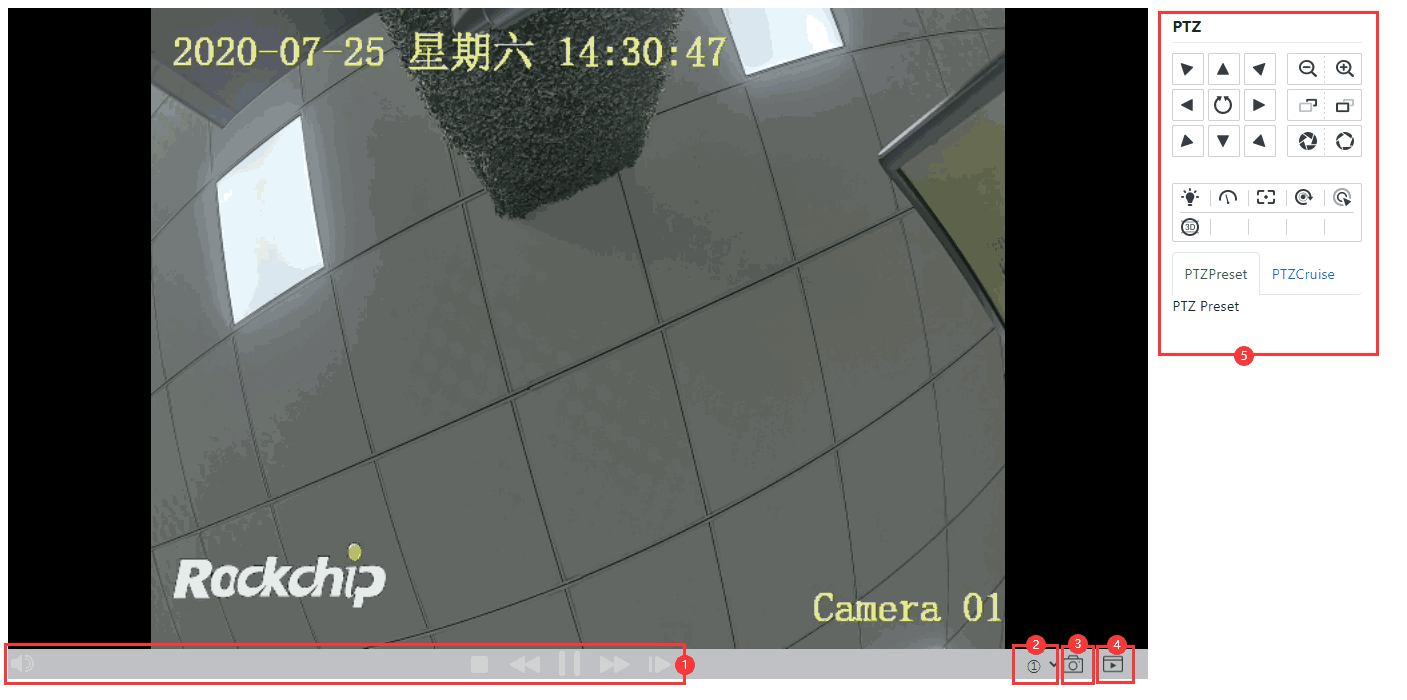
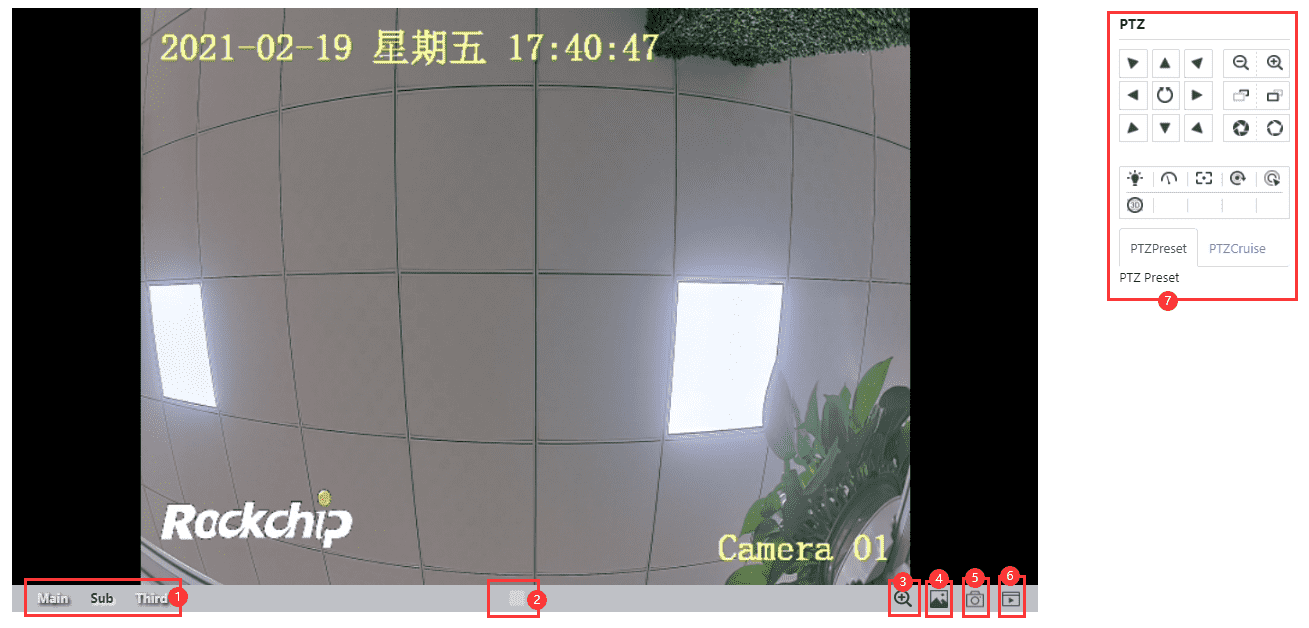
Dept3: Rockchip_Instructions_Linux_Web_Configuration
1. update web player introduce
2. update isp func introduce

diff --git a/Dept3/Linux/ApplicationNote/Rockchip_Instructions_Linux_Web_Configuration/Rockchip_Instructions_Linux_Web_Configuration_CN.md b/Dept3/Linux/ApplicationNote/Rockchip_Instructions_Linux_Web_Configuration/Rockchip_Instructions_Linux_Web_Configuration_CN.md
@@ -2,9 +2,9 @@
 
 文件标识：RK-SM-YF-357
 
-发布版本：V1.5.0
+发布版本：V1.6.0
 
-日期：2020-08-31
+日期：2021-02-19
 
 文件密级：□绝密   □秘密   □内部资料   ■公开
 
@@ -71,6 +71,7 @@ Rockchip Electronics Co., Ltd.
 | V1.3.1 | 陈茂森 | 2020-07-25 | 名称修正 |
 | V1.4.0 | 陈茂森 | 2020-08-14 | 人脸功能变更说明 |
 | V1.5.0 | 陈茂森 | 2020-08-31 | 增加直连调试的说明 |
+| V1.6.0 | 陈茂森 | 2021-02-19 | 预览功能更新，ISP功能更新 |
 
 ---
 
@@ -117,7 +118,7 @@ Rockchip Electronics Co., Ltd.
 
 一月免密登录：30天内免密登录。
 
-浏览器要求：and_chr 81 / and_ff 68 / and_qq 1.2 / and_uc 12.12 / android 81 / baidu 7.12 / chrome 81 / chrome 80 / chrome 79 / edge 81 / edge 80 / edge 18 / firefox 75 / firefox 74 / firefox 73 / firefox 68 / ios_saf 13.3 / ios_saf 13.2 / ios_saf 12.2-12.4 / kaios 2.5 / op_mini all / op_mob 46 / opera 68 / opera 67 / safari 13 / safari 12.1 / samsung 11.1 / samsung 10.1
+浏览器要求：Chrome 79+，Firefox 68+，Edge 80+，Safari 12.1+。
 
 浏览器说明：使用非要求内浏览器，可能存在部分功能无法使用的情况，如播放器无法正常播放。推荐使用最新版chrome进行操作。
 
@@ -153,15 +154,21 @@ Rockchip Electronics Co., Ltd.
 
 <img src="resources/preview_cn.png" alt="preview" style="zoom:67%;" />
 
-①播放器菜单：目前仅支持开始播放以及暂停播放功能。
+①码流切换：切换播放码流。
 
-②码流切换：设置预览界面码流，暂未实现。
+②播放菜单：支持停止/开始功能。
 
-③实时抓图：对网络摄像机画面进行实时截取，可在回放中查看记录。
+③电子放大：对预览内容进行局部放大。
 
-④实时录像：开启实时录像功能，录像过程中按钮转为蓝色，再次点击可结束录像；可在回放中查看记录。
+④网页截图：网页端对预览界面进行截图。
 
-⑤云台：网络摄像机的云台，暂未实现。
+⑤抓拍：设备端抓拍功能，可在[截图](#截图)中查看记录（仅支持主码流）。
+
+⑥录像：设备端录像开关，可在[录像](#录像)中查看记录（仅支持主码流）。
+
+⑦云台：该功能暂未实现。
+
+注：播放器仅支持h264格式。
 
 ## 回放
 
@@ -173,7 +180,7 @@ Rockchip Electronics Co., Ltd.
 
 ①查询：对已有录像进行条件查询。
 
-②预览：双击查询列表的文件，可在预览窗口中进行预览。
+②预览：双击查询列表的文件，可在预览窗口中进行预览（仅支持h264格式）。
 
 ③下载：对选中的录像进行下载。
 
@@ -483,9 +490,9 @@ I帧间隔：两个关键帧间的间隔。
 
 ②图像调节：设置视频亮度、对比度、饱和度、锐度。
 
-③曝光：目前仅支持曝光时间以及增益调节。
+③曝光：支持“自动曝光”以及“手动曝光”两种模式，手动曝光模式下支持对曝光时间以及增益的调节。
 
-④日夜转换：支持日夜转换模式，过滤时间，补光灯模式的调节。灵敏度调节暂未实现。
+④日夜转换：支持日夜转换模式，过滤时间，补光灯模式的调节。
 
 日夜转换模式：“白天”模式下，图像为彩色，“夜晚”模式下图像为黑白。
 
@@ -493,25 +500,33 @@ I帧间隔：两个关键帧间的间隔。
 
 灵敏度：对应的夜晚模式到白天模式转换阈值。灵敏度越高，越容易切换到白天模式， 越难切换到夜晚模式；灵敏度越低，越容易切换到夜晚模式，越难切换到白天模式。
 
-⑥白平衡：设置白平衡模式，支持“手动白平衡”、“自动白平衡”、“锁定白平衡”、“日光灯”、“白炽灯”、“暖光灯”和“自然光”。
+注：配置其他模式后再配置自动模式，将无法使用自动模式进行自动切换。
+
+⑤背光：支持高动态以及高动态级别配置。
+
+高动态：高动态下，能够更好的反映出真实环境中的视觉效果。
+
+⑥白平衡：设置白平衡模式，支持“手动白平衡”、“自动白平衡”。
 
 手动白平衡：该模式下支持 R、B 增益调整。
 
-锁定白平衡：该模式下将锁定当前色彩校正矩阵。
+⑦图像增强：设置数字降噪、去雾模式、灰度范围、鱼眼矫正。
 
-如果实际使用场景为固定灯光类型，可根据实际选择后四种选项。
+数字降噪：减少图像噪点。支持时域降噪，空域降噪以及综合降噪。
 
-⑦图像增强：设置数字降噪、透雾模式、灰度范围、鱼眼矫正。
-
-数字降噪：减少图像噪点。普通模式下，通过降噪等级进行调整。在专家模式下可设置时域与空域降噪。
-
-透雾模式：可选择“开启”和“关闭”，开启该功能后可以一定程度上提升水雾天气视频画面中的物体可辨识程度。
+去雾模式：可选择“开启”和“关闭”，开启该功能后可以一定程度上提升水雾天气视频画面中的物体可辨识程度。
 
 灰度范围：可选择“[0-255]”和“[16-235]”，用户可根据实际需要来选择视频编码的灰度范围。
 
-鱼眼矫正：可选择“开启”和“关闭”，开启该功能后可以一定程度上减小画面边缘的畸变。
+畸变矫正：支持LDCH以及FEC矫正。
 
-⑧视频调整：目前仅支持制式设置。
+LDCH：水平方向的畸变矫正，支持矫正级别的调整。
+
+FEC：水平以及垂直方向的畸变矫正，支持矫正级别的调整。
+
+⑧视频调整：支持视频制式的调整，以及视频镜像模式的配置。
+
+镜像：支持翻转、镜像、中心对称模式配置。
 
 ---
 
@@ -535,11 +550,9 @@ I帧间隔：两个关键帧间的间隔。
 
 <img src="resources/privacy_cn.png" alt="privacy" style="zoom: 50%;" />
 
-绘制区域：绘制视频遮挡区域，目前最多绘制1个区域，计划最多绘制4个区域。
+绘制区域：绘制视频遮挡区域，目前仅支持绘制1个区域。
 
 清除：清除所有的绘制区域。
-
-说明：目前仅第一个绘图区域遮挡生效。
 
 #### 图片遮挡
 

diff --git a/Dept3/Linux/ApplicationNote/Rockchip_Instructions_Linux_Web_Configuration/Rockchip_Instructions_Linux_Web_Configuration_EN.md b/Dept3/Linux/ApplicationNote/Rockchip_Instructions_Linux_Web_Configuration/Rockchip_Instructions_Linux_Web_Configuration_EN.md
@@ -2,9 +2,9 @@
 
 ID: RK-SM-YF-357
 
-Release Version: V1.5.0
+Release Version: V1.6.0
 
-Release Date: 2020-08-31
+Release Date: 2021-02-19
 
 Security Level: □Top-Secret   □Secret   □Internal   ■Public
 
@@ -67,6 +67,7 @@ Software development engineers
 | V1.3.1 | Allen Chen | 2020-07-25 | Correction. |
 | V1.4.0 | Allen Chen | 2020-08-14 | Add introduction on face function changes. |
 | V1.5.0 | Allen Chen | 2020-08-31 | Add introduction about direct connection. |
+| V1.6.0 | Allen Chen | 2021-02-19 | Update introduction about Web player and ISP. |
 
 **Contents**
 
@@ -115,7 +116,7 @@ Auto Login Within One Week: Login without password within 7 days.
 
 Auto Login Within One Month: Login without password within 30 days.
 
-Browser requirements: and_chr 81 / and_ff 68 / and_qq 1.2 / and_uc 12.12 / android 81 / baidu 7.12 / chrome 81 / chrome 80 / chrome 79 / edge 81 / edge 80 / edge 18 / firefox 75 / firefox 74 / firefox 73 / firefox 68 / ios_saf 13.3 / ios_saf 13.2 / ios_saf 12.2-12.4 / kaios 2.5 / op_mini all / op_mob 46 / opera 68 / opera 67 / safari 13 / safari 12.1 / samsung 11.1 / samsung 10.1
+Browser requirements: Chrome 79+，Firefox 68+，Edge 80+，Safari 12.1+.
 
 Remark: using browser that is beyond requirements, part of functions would be disabled.
 
@@ -151,15 +152,21 @@ Use a browser to access the login address, you can see the login address as show
 
 ![preview](resources/preview_en.png)
 
-①Player Menu: Only support playing/pausing/stopping。
+①Switch Stream: Switch stream to play.
 
-②Switch Stream: To be realized.
+②Player menu: Support stop and play.
 
-③Snapshot: Snapshot. Inquire record in review page.
+③Enlarge: Partially enlarge the preview content.
 
-④Recording: Recording switch. When switch on, color of this button would alter to blue. Inquire record in review page.
+④Screenshot: screenshot on web.
 
-⑤PTZ：IPC PTZ. To be realized.
+⑤Snapshot: Snapshot in device. The record can be viewed in the [Snapshot](#Snapshot) (only supported in mainstream).
+
+⑥Recording: Recording switch. When switch on, color of this button would alter to blue. The record can be viewed in the [Video Record](#Video Record) (only supported in mainstream).
+
+⑦PTZ：IPC PTZ. To be realized.
+
+Remark: The player only supports h264 format.
 
 ## Review
 
@@ -465,7 +472,7 @@ The current default encoding is MP2, which only supports input volume adjustment
 
 ②Graphic Options: Set video brightness, contrast, saturation, sharpness.
 
-③Exposure: Currently only supports exposure time and gain adjustment.
+③Exposure: It supports two modes of "Auto Exposure" and "Manual Exposure", and the adjustment of exposure time and gain is supported in manual exposure mode.
 
 ④ICR: Support ICR mode, filter time, adjustment of fill light mode. Sensitivity adjustment has not yet been realized.
 
@@ -475,25 +482,33 @@ Filter Time: It is adjustable from 5 s to 120 s. When the ambient illuminance me
 
 Sensitive: Corresponding night mode to day mode transition threshold. The higher the sensitivity, the easier it is to switch to day mode and the harder it is to switch to night mode; the lower the sensitivity, the easier it is to switch to night mode and the harder it is to switch to day mode.
 
-⑥BLC: Set the white balance mode, support "Manual White Balance", "Auto White Balance 1", "Locking White Balance", "Fluorescent Light", "Incandescent", "Warm Light" and "Natural Light".
+Note: After configuring other modes and then configuring automatic mode, automatic mode cannot be used for automatic switching.
+
+⑤Backlight: Support HDR and HDR level configuration.
+
+HDR: It can better reflect the visual effects in the real environment.
+
+⑥BLC: Set the white balance mode, support "Manual White Balance", "Auto White Balance".
 
 Manual White Balance: Support Red, Blue gain adjustment in this mode.
 
-Locking White Balance: In this mode, the current color correction matrix will be locked.
+⑦Image Enhancement: Set DNR, Dehaze, Gray Range, Correction。
 
-If the actual using scene is a fixed light type, you can choose the last four options according to the actual situation.
-
-⑦Image Enhancement: Set DNR, Dehaze, Gray Range, FEC。
-
-DNR: Reduce image noise. In normal mode, adjust the noise reduction level. In expert mode, time domain and spatial domain noise reduction can be set.
+DNR: Reduce image noise. Support time domain noise reduction, air domain noise reduction and comprehensive noise reduction.
 
 Dehaze: You can choose "On" and "Off". After turning on this function, you can improve the visibility of objects in the water mist weather video screen to a certain extent.
 
 Gray Range: "[0-255]" and "[16-235]" can be selected, and users can select the grayscale range of the video encoding according to actual needs.
 
-FEC: You can choose "on" and "off". After turning on this function, the distortion of the screen edge can be reduced to a certain extent.
+Correction: Support LDCH and FEC correction.
 
-⑧Video Adjustment: Only the Video Standard is currently supported.
+LDCH: Distortion correction in the horizontal direction supports adjustment of the correction level.
+
+FEC: Distortion correction in horizontal and vertical directions, support adjustment of correction level.
+
+⑧Video Adjustment: Support the adjustment of video standard and the configuration of video mirroring mode.
+
+Mirror: Support flip, mirror, center symmetrical mode configuration.
 
 #### OSD
 
@@ -515,11 +530,9 @@ Character overlay currently only supports the setting of two overlay areas, and 
 
 <img src="resources/privacy_en.png" alt="privacy" style="zoom: 50%;" />
 
-Drawing: Draw the occluded area of the video, currently at most 1 area is drawn, and it is planned to draw at most 4 areas.
+Drawing: Draw the occluded area of the video. Currently, only 1 area is supported.
 
 Del: Clear the drawing frame in the current area.
-
-Remark: Currently only the first drawing area takes effect.
 
 #### Picture Mask
 
